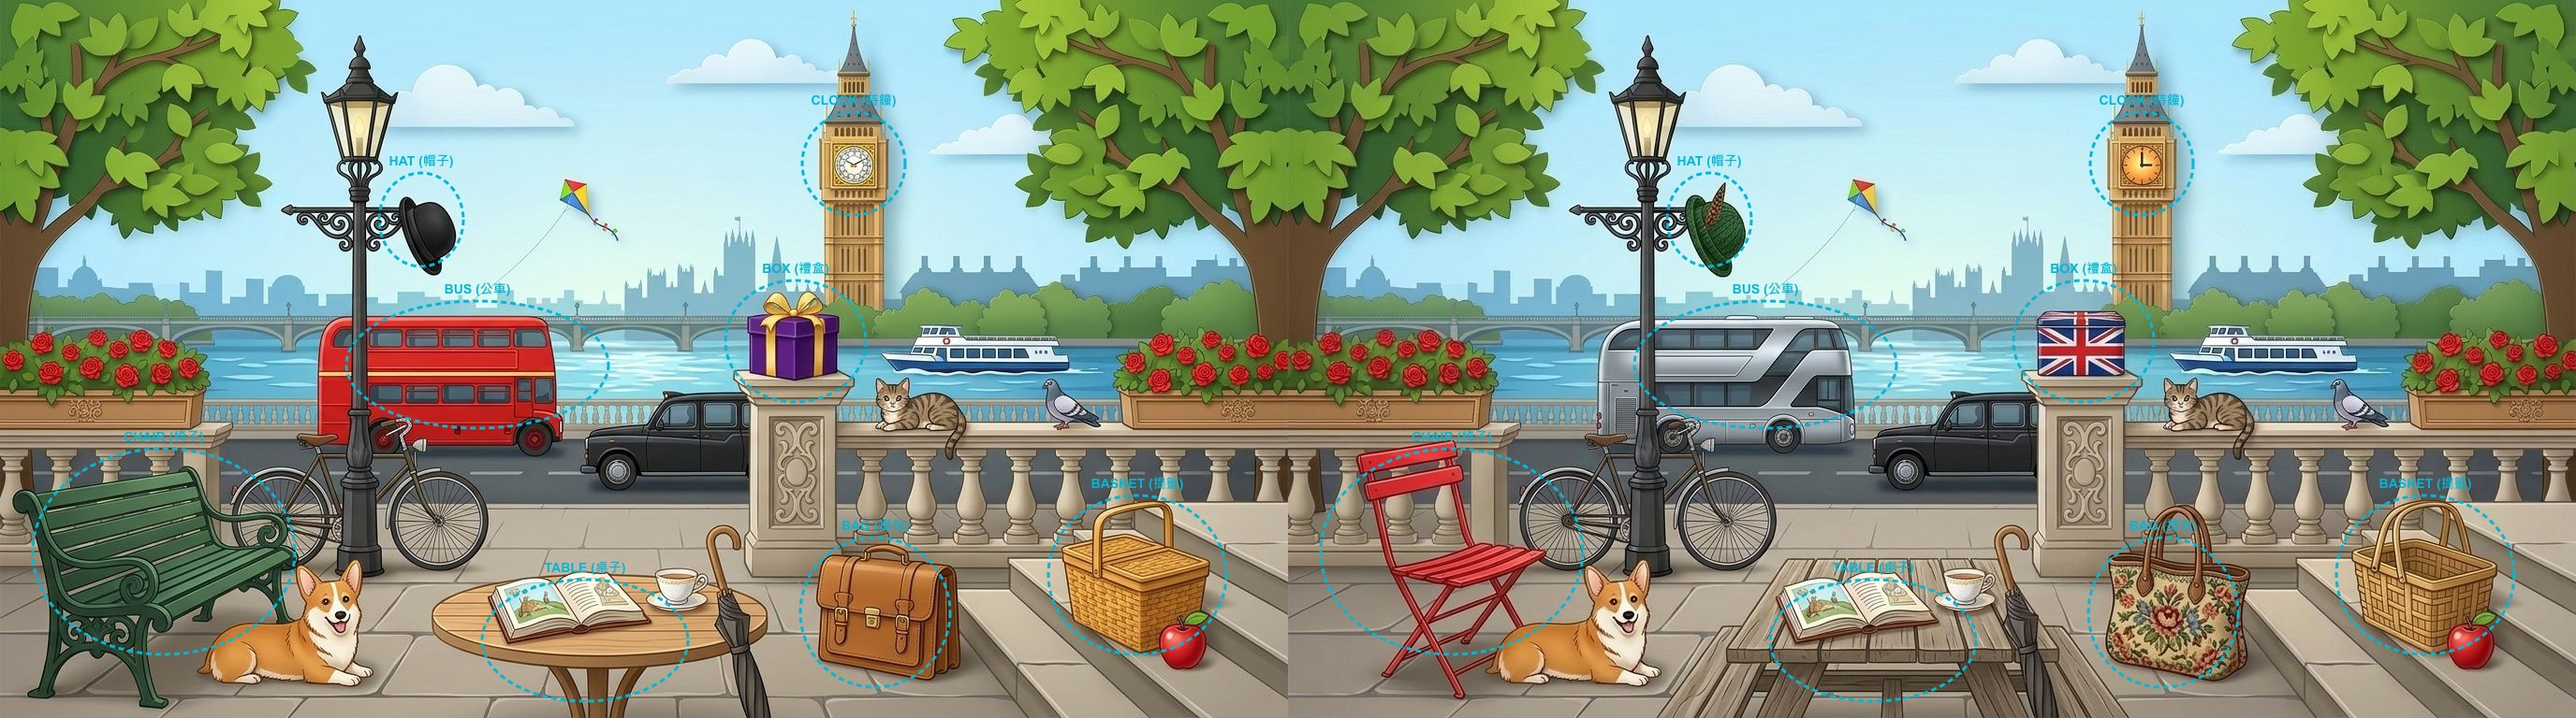
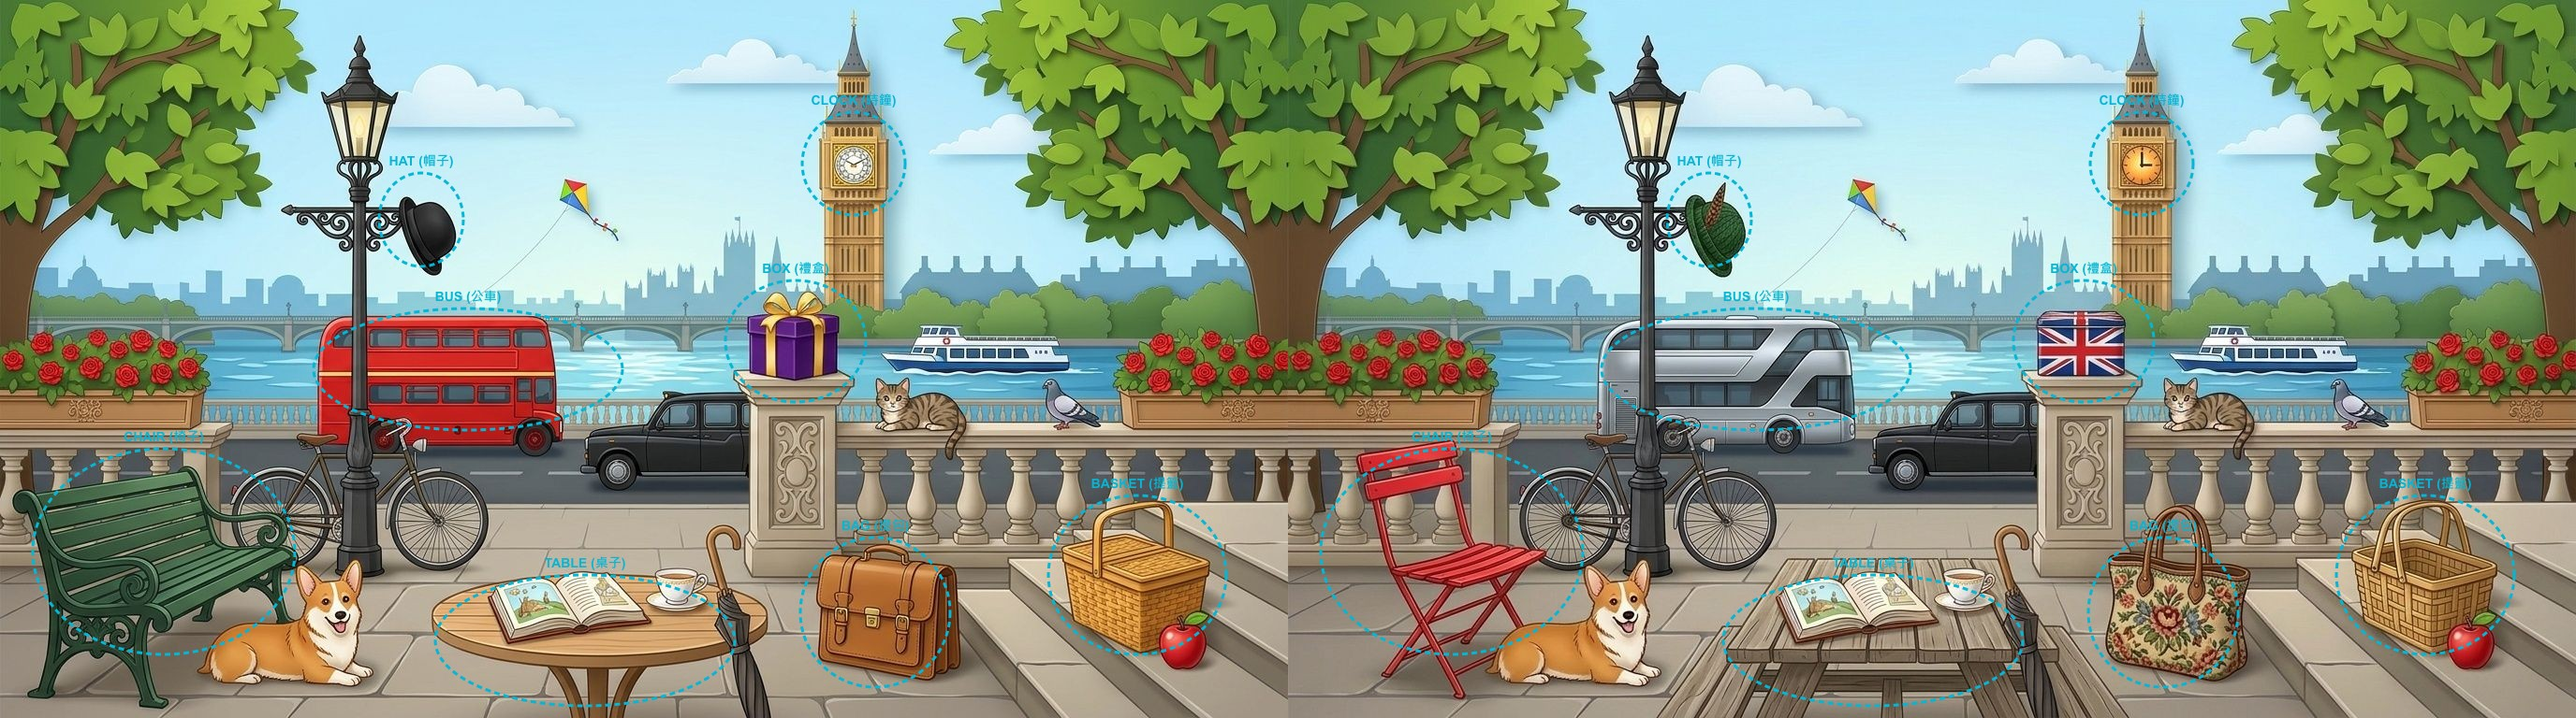
fix(spotter): expand table to full tabletop and extend bus to include left section past lamppost

diff --git a/src/games/spotter/spotterData.js b/src/games/spotter/spotterData.js
@@ -662,14 +662,14 @@ export const BOOK4_RIVERSIDE_SCENE = {
     {
       word: 'bus',
       wordZh: '公車',
-      x: 510,
-      y: 390,
+      x: 500,
+      y: 395,
       radius: 140,
-      radiusX: 140,
-      radiusY: 68,
+      radiusX: 165,
+      radiusY: 65,
       typeZh: '公車外觀',
       descZh: '河畔街道行駛經典紅雙層巴士，右圖轉為皇家海軍藍觀光巴士',
-      slot: { x: 360, y: 312, w: 300, h: 156, rx: 16 },
+      slot: { x: 320, y: 315, w: 360, h: 160, rx: 16 },
       patchFile: 'bus_variantA.png',
       cropCompare: '/assets/spotter/crops/b4_s2/bus_compare.jpg',
       variants: [
@@ -684,12 +684,12 @@ export const BOOK4_RIVERSIDE_SCENE = {
       wordZh: '桌子',
       x: 625,
       y: 685,
-      radius: 110,
-      radiusX: 110,
-      radiusY: 65,
+      radius: 120,
+      radiusX: 160,
+      radiusY: 70,
       typeZh: '咖啡桌款',
       descZh: '露天原木咖啡圓桌，右圖披覆典雅白色波浪蕾絲桌巾',
-      slot: { x: 505, y: 610, w: 240, h: 150, rx: 16 },
+      slot: { x: 450, y: 605, w: 350, h: 160, rx: 16 },
       patchFile: 'table_variantA.png',
       cropCompare: '/assets/spotter/crops/b4_s2/table_compare.jpg',
       variants: [
